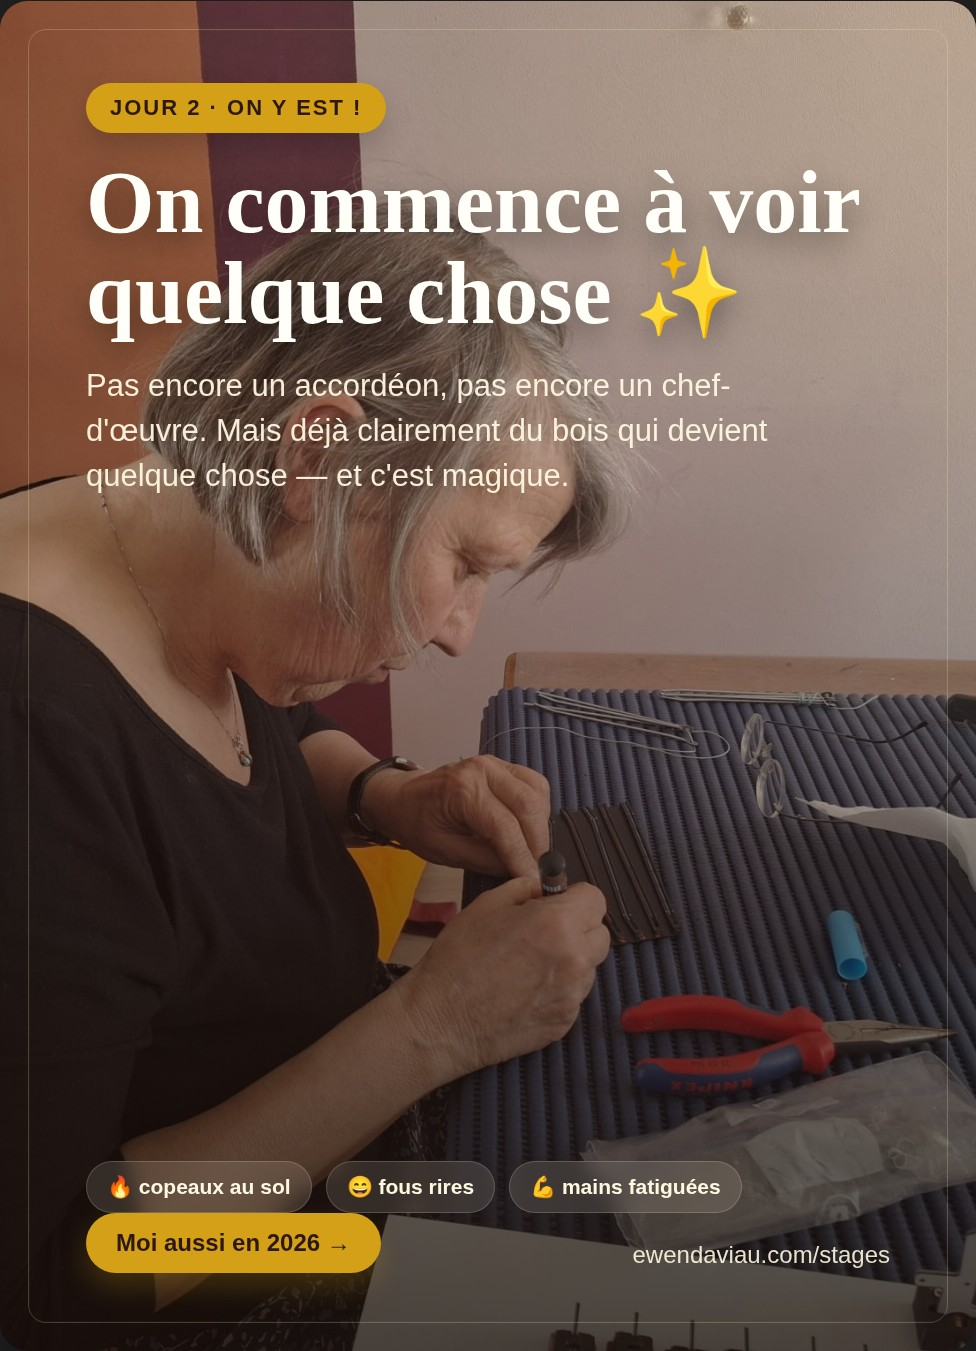
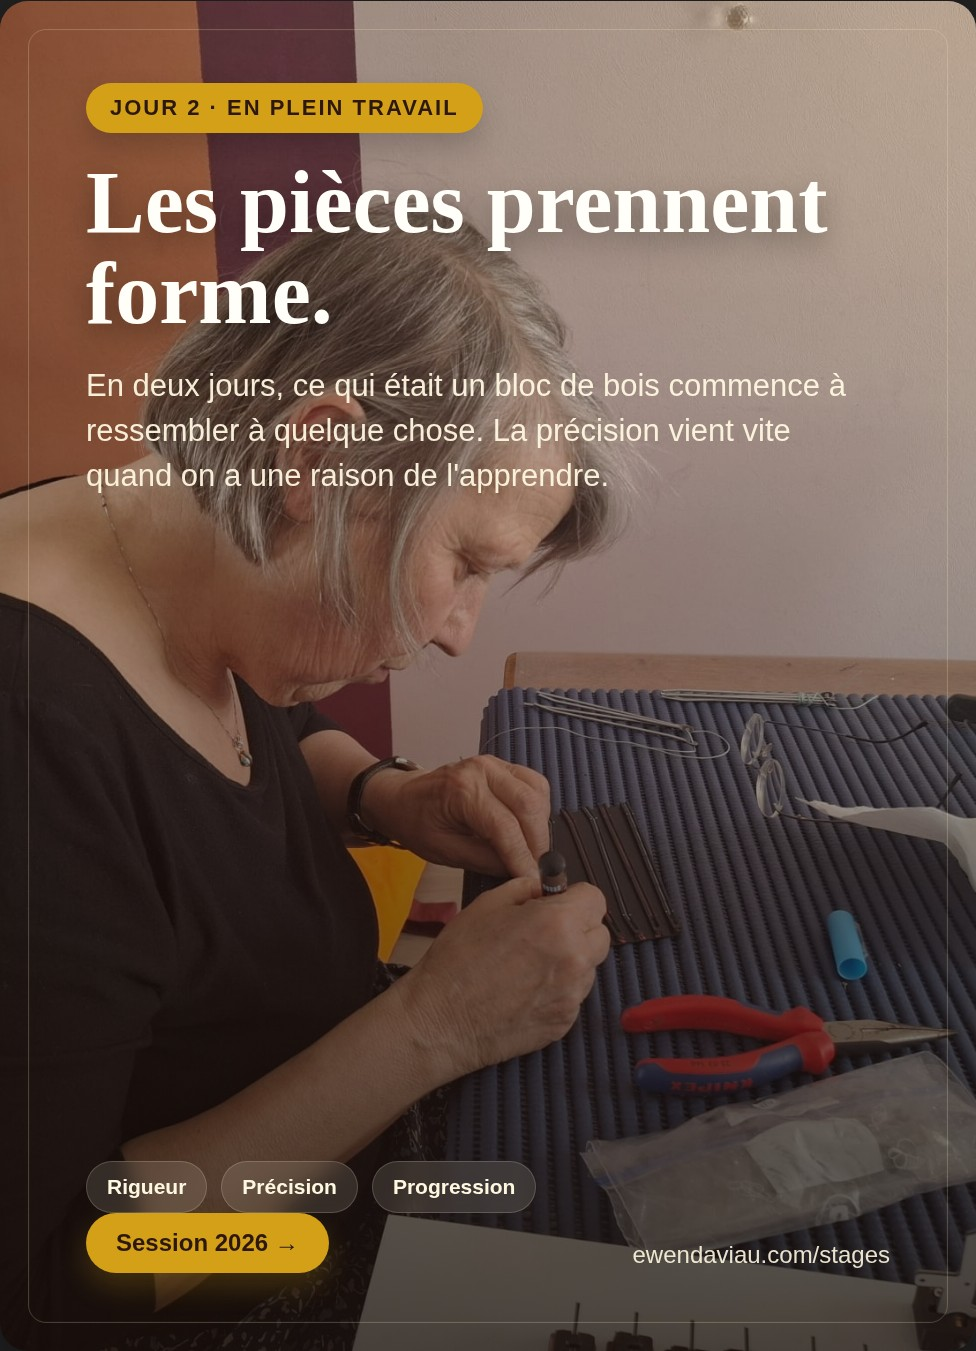
textes publications réécrits : pro, épuré, subtil, authentique + images publi régénérées
Agent-Logs-Url: https://github.com/labodezao/stages-lutherie/sessions/25dc48f8-5e2c-4d8f-8fec-076f9b883b1e

Changed region(s): [[0.0922, 0.0622, 0.8914, 0.2487], [0.0922, 0.2798, 0.8607, 0.3731], [0.0922, 0.8394, 0.7377, 0.9637]]

diff --git a/comm/stages/publications-jours-1-2-3-cta-2026.html b/comm/stages/publications-jours-1-2-3-cta-2026.html
@@ -375,18 +375,18 @@
       <div class="post-card post-card--jour1">
         <div class="card-content">
           <div>
-            <div class="eyebrow">Jour 1 · ça commence !</div>
-            <h2 class="card-title">Mains dans le bois, cœur qui s'emballe</h2>
-            <p class="card-subtitle">Certains ont mal dormi la nuit d'avant. D'excitation. Oui, ça arrive pour un accordéon.</p>
+            <div class="eyebrow">Jour 1 · 9 avril 2026</div>
+            <h2 class="card-title">Du bois, des mains, et quelque chose qui commence.</h2>
+            <p class="card-subtitle">Dix jours pour construire un accordéon diatonique de A à Z. Le premier geste est toujours le plus hésitant — et le plus beau.</p>
           </div>
           <div>
             <div class="facts">
-              <span class="fact">🪵 premiers copeaux</span>
-              <span class="fact">😅 premières sueurs</span>
-              <span class="fact">😍 premières fiertés</span>
+              <span class="fact">Saint-Nazaire</span>
+              <span class="fact">10 jours</span>
+              <span class="fact">6 stagiaires</span>
             </div>
             <div class="card-footer">
-              <div class="cta">Je veux vivre ça →</div>
+              <div class="cta">Session 2026 →</div>
               <div class="footer-text">ewendaviau.com/stages</div>
             </div>
           </div>
@@ -395,21 +395,20 @@
 
       <aside class="copy-box">
         <h3>Publication Jour 1</h3>
-        <p class="angle"><strong>Angle :</strong> premier jour chaleureux et enthousiaste — pour ceux qui rêvent de vivre ça.</p>
+        <p class="angle"><strong>Angle :</strong> lancement en direct — sobre, sincère, donne envie de suivre la suite.</p>
         <div class="photo-hint">📎 Photo à joindre : <strong>export-facebook/jour1/carousel-01.jpg</strong> (portrait) + carousel-02 (atelier)</div>
         <div class="fb-text" id="fb1">
           <div class="fb-text-label">Texte Facebook – copier-coller</div>
           <button class="copy-btn" onclick="copyText('fb1', this)">Copier</button>
-          <pre id="fb1-pre">Jour 1 — et il paraît que certains ont eu du mal à dormir la nuit d'avant. D'excitation. (Pour un accordéon. Oui.) 🙈🎵
+          <pre id="fb1-pre">Jour 1. 🪵
 
-Les établis sont pris d'assaut, les premiers copeaux volent (parfois dans la mauvaise direction), et on entend déjà des "oh là là c'est possible ça ??" à chaque nouveau geste appris.
+Premiers outils en main, premières planches choisies. Il y a dans ce moment quelque chose de difficile à décrire — l'instant où on réalise que c'est vraiment parti.
 
-C'est ça qu'on aime : voir quelqu'un tenir un outil de lutherie pour la toute première fois… et voir dans ses yeux que quelque chose vient de changer pour toujours.
+Je partagerai quelques instants du stage au fil des jours.
 
-À demain pour la suite 🪵✨
 👉 ewendaviau.com/stages
 
-#accordeondiatonique #lutherie #stagemusique #premiersgestes #passion #artisanat #saintNazaire</pre>
+#lutherie #accordeondiatonique #artisanat #diato #saintNazaire</pre>
         </div>
       </aside>
     </section>
@@ -419,18 +418,18 @@ C'est ça qu'on aime : voir quelqu'un tenir un outil de lutherie pour la toute p
       <div class="post-card post-card--jour2">
         <div class="card-content">
           <div>
-            <div class="eyebrow">Jour 2 · on y est !</div>
-            <h2 class="card-title">On commence à voir quelque chose ✨</h2>
-            <p class="card-subtitle">Pas encore un accordéon, pas encore un chef-d'œuvre. Mais déjà clairement du bois qui devient quelque chose — et c'est magique.</p>
+            <div class="eyebrow">Jour 2 · en plein travail</div>
+            <h2 class="card-title">Les pièces prennent forme.</h2>
+            <p class="card-subtitle">En deux jours, ce qui était un bloc de bois commence à ressembler à quelque chose. La précision vient vite quand on a une raison de l'apprendre.</p>
           </div>
           <div>
             <div class="facts">
-              <span class="fact">🔥 copeaux au sol</span>
-              <span class="fact">😄 fous rires</span>
-              <span class="fact">💪 mains fatiguées</span>
+              <span class="fact">Rigueur</span>
+              <span class="fact">Précision</span>
+              <span class="fact">Progression</span>
             </div>
             <div class="card-footer">
-              <div class="cta">Moi aussi en 2026 →</div>
+              <div class="cta">Session 2026 →</div>
               <div class="footer-text">ewendaviau.com/stages</div>
             </div>
           </div>
@@ -439,23 +438,20 @@ C'est ça qu'on aime : voir quelqu'un tenir un outil de lutherie pour la toute p
 
       <aside class="copy-box">
         <h3>Publication Jour 2</h3>
-        <p class="angle"><strong>Angle :</strong> l'amour qui grandit pour le bois et le travail — concret, chaleureux, accrocheur.</p>
+        <p class="angle"><strong>Angle :</strong> progression visible, fierté du geste — sans en faire trop.</p>
         <div class="photo-hint">📎 Photo à joindre : <strong>export-facebook/jour2/carousel-01.jpg</strong> (ou carousel-02, toutes les 4 sont bonnes)</div>
         <div class="fb-text" id="fb2">
           <div class="fb-text-label">Texte Facebook – copier-coller</div>
           <button class="copy-btn" onclick="copyText('fb2', this)">Copier</button>
-          <pre id="fb2-pre">Deuxième jour de stage — les mains commencent à avoir leur propre opinion sur le bois ✂🪵
+          <pre id="fb2-pre">Jour 2. ✂
 
-Les premières pièces se dessinent. Les gestes se précisent, les questions fusent, et quelque part dans cet atelier un accordéon commence à exister — par fragments, par copeaux, par petites fiertés accumulées.
+Les premières pièces se dessinent. Les gestes se précisent. Il y a ce moment où quelqu'un regarde ce qu'il vient de façonner — et réalise que c'est lui qui l'a fait.
 
-Il y a ce moment magique où quelqu'un tient pour la première fois une pièce qu'il vient de façonner et dit "j'ai fait ça moi ?" Oui. Toi. 🥹
+C'est pour ça qu'on fait ça.
 
-C'est ça le truc qu'on ne peut pas vraiment expliquer avec des mots — mais qu'on va quand même essayer de vous montrer en photos.
-
-À demain !
 👉 ewendaviau.com/stages
 
-#lutherie #accordeondiatonique #diato #artisanat #balfolk #stagemusique #saintNazaire</pre>
+#lutherie #accordeondiatonique #diato #artisanat #saintNazaire</pre>
         </div>
       </aside>
     </section>
@@ -465,9 +461,9 @@ C'est ça le truc qu'on ne peut pas vraiment expliquer avec des mots — mais qu
       <div class="post-card post-card--jour3">
         <div class="card-content">
           <div>
-            <div class="eyebrow">Jour 3 · les cœurs sont pleins</div>
-            <h2 class="card-title">La concentration, ça ressemble à de l'amour</h2>
-            <p class="card-subtitle">Quand le bois parle, on écoute. Et parfois on lui répond avec un racloir. Les gestes s'affûtent — et les sourires aussi.</p>
+            <div class="eyebrow">Jour 3 · dans le vif</div>
+            <h2 class="card-title">Le silence qui dit tout.</h2>
+            <p class="card-subtitle">Quand l'atelier se tait, ce n'est pas qu'il ne se passe rien. C'est qu'il se passe tout.</p>
           </div>
           <div>
             <div class="facts">
@@ -476,7 +472,7 @@ C'est ça le truc qu'on ne peut pas vraiment expliquer avec des mots — mais qu
               <span class="fact">�� émotions vraies</span>
             </div>
             <div class="card-footer">
-              <div class="cta">Je veux ça en 2026 →</div>
+              <div class="cta">Session 2026 →</div>
               <div class="footer-text">ewendaviau.com/stages</div>
             </div>
           </div>
@@ -485,24 +481,21 @@ C'est ça le truc qu'on ne peut pas vraiment expliquer avec des mots — mais qu
 
       <aside class="copy-box">
         <h3>Publication Jour 3</h3>
-        <p class="angle"><strong>Angle :</strong> émotion pure, beauté du travail — faire ressentir l'atmosphère de l'atelier.</p>
+        <p class="angle"><strong>Angle :</strong> ambiance atelier, concentration, le vrai du stage — une image suffit.</p>
         <div class="photo-hint">📎 Photo à joindre : <strong>export-facebook/jour3/carousel-01.jpg</strong> (portrait) ou carousel-03 (mains au travail)</div>
         <div class="fb-text" id="fb3">
           <div class="fb-text-label">Texte Facebook – copier-coller</div>
           <button class="copy-btn" onclick="copyText('fb3', this)">Copier</button>
-          <pre id="fb3-pre">Jour 3 — à ce stade, on peut dire officiellement qu'ils sont accros 🪵❤
+          <pre id="fb3-pre">Jour 3. 🤫
 
-Il y a un silence particulier dans cet atelier. Pas le silence vide. Le silence habité. Celui de gens qui sont tellement dans leur truc qu'ils ont oublié qu'ils pourraient parler.
+Il y a un silence dans l'atelier, aujourd'hui. Pas le vide — le plein. Celui de gens entièrement dans ce qu'ils font.
 
-"J'aurais jamais cru que j'arriverais à faire ça." — entendu trois fois aujourd'hui.
-
-Nous, on le savait. On n'a rien dit, on a juste souri dans nos barbes. 😄
-
-C'est ça qu'on vend ici. Pas juste un accordéon. Une transformation tranquille, silencieuse, et absolument réelle.
+"J'aurais jamais cru que j'arriverais à faire ça."
+Entendu plusieurs fois. On a juste souri.
 
 👉 ewendaviau.com/stages
 
-#lutherie #accordeondiatonique #stagemusique #artisanat #diato #passion #saintNazaire</pre>
+#lutherie #accordeondiatonique #diato #artisanat #saintNazaire</pre>
         </div>
       </aside>
     </section>
@@ -512,18 +505,18 @@ C'est ça qu'on vend ici. Pas juste un accordéon. Une transformation tranquille
       <div class="post-card post-card--cta">
         <div class="card-content">
           <div>
-            <div class="eyebrow">Stage 2026 · et si c'était vous ?</div>
-            <h2 class="card-title">Et si c'était vous ?</h2>
-            <p class="card-subtitle">10 jours, du bois, des outils, une belle bande de gens passionnés. Et vous repartez avec un accordéon que vous avez fait de vos mains. Vraiment.</p>
+            <div class="eyebrow">Stage 2026 · inscriptions ouvertes</div>
+            <h2 class="card-title">Fabriquer son propre accordéon.</h2>
+            <p class="card-subtitle">10 jours à Saint-Nazaire. Zéro prérequis. Vous repartez avec un instrument que vous avez construit de vos mains.</p>
           </div>
           <div>
             <div class="facts">
-              <span class="fact">📍 Saint-Nazaire</span>
-              <span class="fact">🗓 10 jours</span>
-              <span class="fact">👥 6 places max</span>
+              <span class="fact">Saint-Nazaire</span>
+              <span class="fact">10 jours</span>
+              <span class="fact">6 places max</span>
             </div>
             <div class="card-footer">
-              <div class="cta">Je m'inscris →</div>
+              <div class="cta">En savoir plus →</div>
               <div class="footer-text">ewendaviau.com/stages</div>
             </div>
           </div>
@@ -532,31 +525,25 @@ C'est ça qu'on vend ici. Pas juste un accordéon. Une transformation tranquille
 
       <aside class="copy-box">
         <h3>Publication Appel à action — Stage 2026</h3>
-        <p class="angle"><strong>Angle :</strong> clôture chaleureuse de la série, invitation sincère, CTA direct et humain.</p>
+        <p class="angle"><strong>Angle :</strong> clôture sobre, CTA direct — ni forcer ni convaincre, juste informer.</p>
         <div class="photo-hint">📎 Photo à joindre : <strong>export-facebook/jour3/carousel-04.jpg</strong> (atelier) ou carousel-05 (groupe)</div>
         <div class="fb-text" id="fb4">
           <div class="fb-text-label">Texte Facebook – copier-coller</div>
           <button class="copy-btn" onclick="copyText('fb4', this)">Copier</button>
-          <pre id="fb4-pre">Depuis quelques jours je vous partage des moments du stage qui vient de se terminer.
+          <pre id="fb4-pre">Le stage vient de se terminer.
 
-Et si en regardant ces photos vous avez ressenti un petit quelque chose — cette petite voix douce mais têtue qui dit "mais moi aussi j'aimerais faire ça…" — c'est exactement le bon signe. 😊✨
+Si ces quelques photos vous ont parlé, la prochaine session est ouverte aux inscriptions.
 
-Les inscriptions pour 2026 sont ouvertes.
+📍 Saint-Nazaire · 10 jours · 6 places
+🔨 Aucun prérequis
+🪵 Vous repartez avec votre propre accordéon diatonique
 
-📍 Atelier à Saint-Nazaire
-🗓 10 jours de fabrication complète (de A à Z)
-🔨 Aucun prérequis — on part de zéro ensemble
-👥 6 places maximum (et ça part vite — vraiment)
-🪵 Vous repartez avec un accordéon diatonique fait de vos mains
-
-Je ne vous promets pas que ce sera facile. Je vous promets que vous n'oublierez jamais la première note que joue un instrument que vous avez fabriqué vous-même.
-
-Toutes les infos et le formulaire ici :
+Toutes les informations ici :
 👉 ewendaviau.com/stages
 
-Des questions ? Écrivez-moi. Je réponds toujours — personnellement, pas une IA 😄
+Des questions ? Écrivez-moi directement.
 
-#accordeondiatonique #lutherie #stagemusique #diato #balfolk #artisanat #saintNazaire #inscription2026</pre>
+#accordeondiatonique #lutherie #stagemusique #diato #saintNazaire #inscription2026</pre>
         </div>
       </aside>
     </section>
